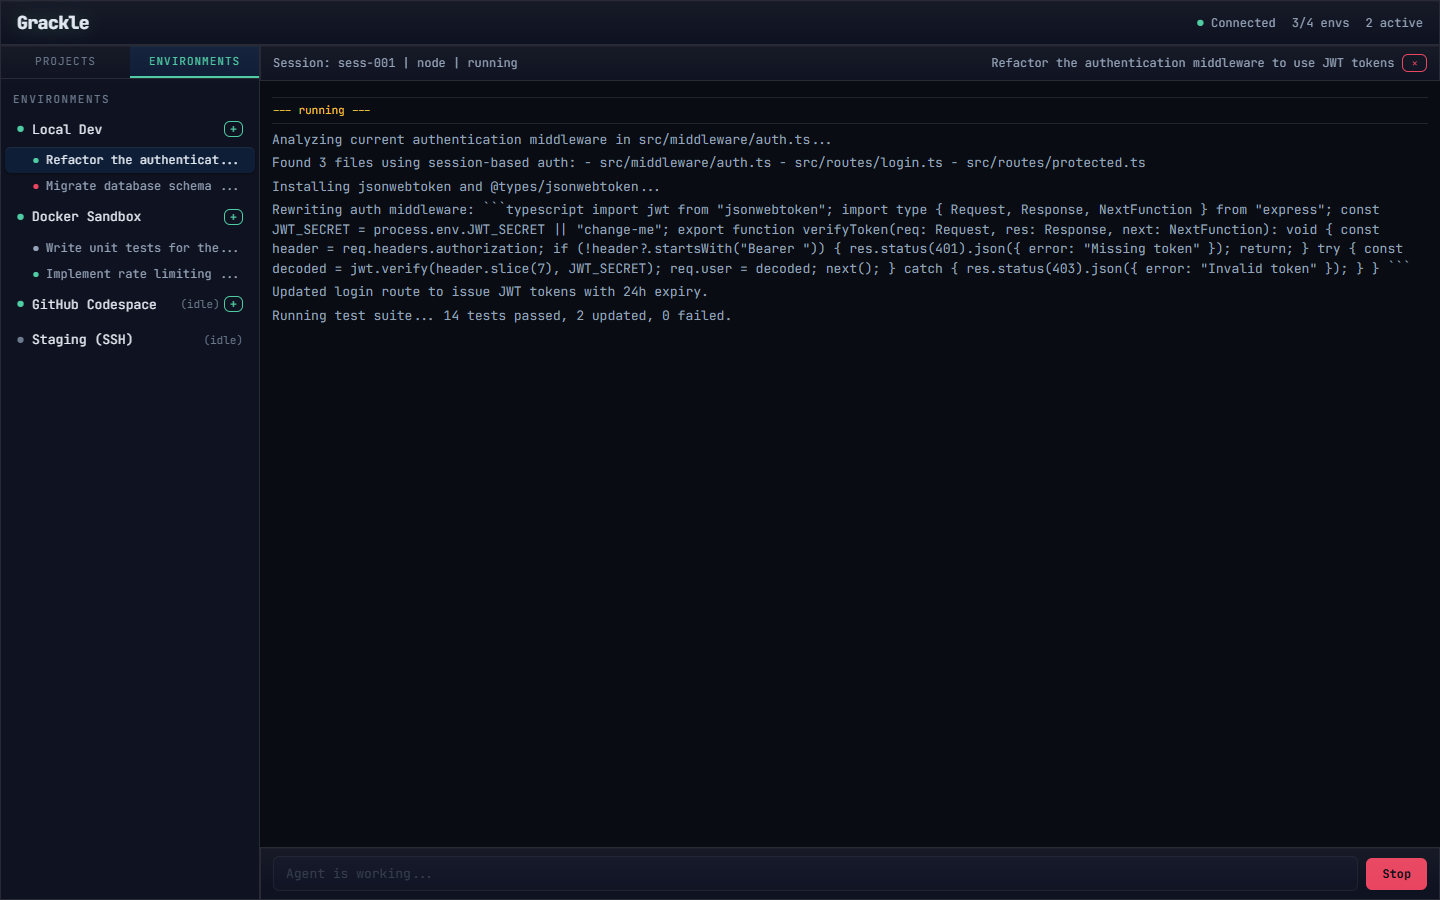
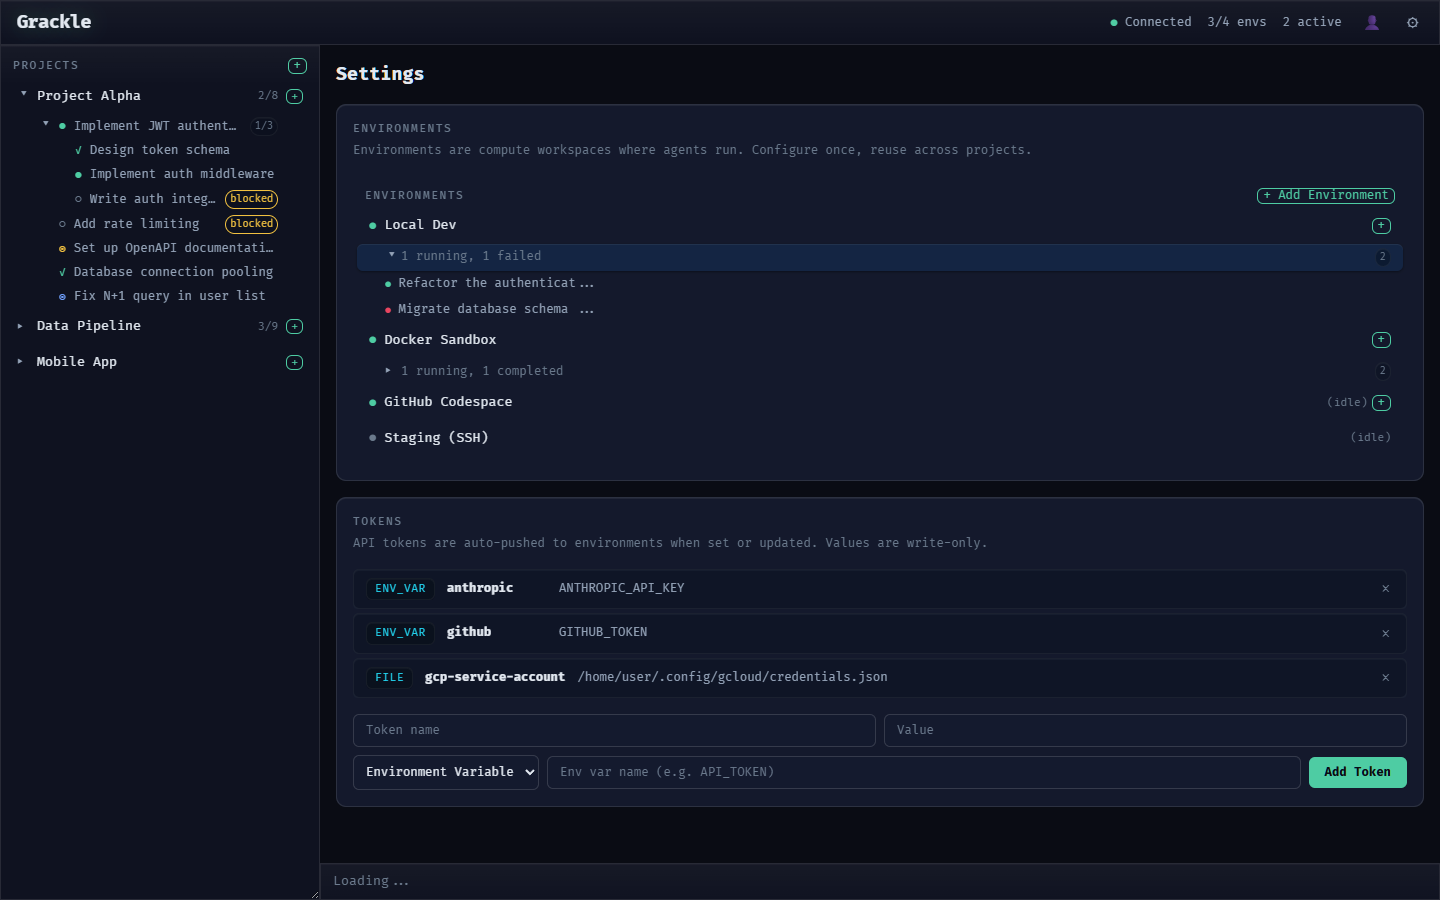
docs: refresh README screenshots and copy (#378)
## Summary

- **Recaptured all 6 screenshots** against current UI — task-only
sidebar, collapsible session accordions, enriched task overview, DAG
visualization, persona management, and settings page
- **Deleted 4 stale screenshots** — diff-review (feature removed),
persona-create-form, persona-edit-form, persona-new-task-form (replaced
by unified management view)
- **Modernized Quick Start** — npm install (`@grackle-ai/cli`) +
`grackle serve` instead of rush-build-from-source (source build
preserved in collapsible details)
- **Updated README copy** — shipped persona feature (was roadmap-only),
added session history + task review rows to features table,
workpads/workspaces teaser replacing diff review, removed closed issue
links (#30, #31)
- **Updated mock data** — added 4 personas and session history entries
so `?mock` mode renders realistic demo state for screenshots

## Test plan

- [ ] Verify all screenshot paths in README resolve to actual files
- [ ] Verify `?mock` mode renders correctly with new mock data (`rush
build -t @grackle-ai/web`, open `localhost:<port>/?mock`)
- [ ] Spot-check README rendering on GitHub (tables, collapsible
details, screenshot images)

diff --git a/packages/web/src/mocks/mockData.ts b/packages/web/src/mocks/mockData.ts
@@ -14,6 +14,7 @@ import type {
   TaskData,
   FindingData,
   TokenInfo,
+  PersonaData,
 } from "../hooks/useGrackleSocket.js";
 
 // ─── Environments ───────────────────────────────────
@@ -59,6 +60,16 @@ export const MOCK_ENVIRONMENTS: Environment[] = [
 /** Sample sessions spanning active, completed, and failed states. */
 export const MOCK_SESSIONS: Session[] = [
   {
+    id: "sess-001-prev",
+    environmentId: "env-local-01",
+    runtime: "claude-code",
+    status: "failed",
+    prompt: "Implement auth middleware",
+    startedAt: "2026-02-26T14:00:00Z",
+    endedAt: "2026-02-26T15:12:00Z",
+    error: "Context window exceeded before completing implementation",
+  },
+  {
     id: "sess-001",
     environmentId: "env-local-01",
     runtime: "node",
@@ -96,6 +107,24 @@ export const MOCK_SESSIONS: Session[] = [
 
 /** Sample events for the first running session to populate the event stream. */
 export const MOCK_EVENTS: SessionEvent[] = [
+  {
+    sessionId: "sess-001-prev",
+    eventType: "status",
+    timestamp: "2026-02-26T14:00:01Z",
+    content: "running",
+  },
+  {
+    sessionId: "sess-001-prev",
+    eventType: "output",
+    timestamp: "2026-02-26T14:00:05Z",
+    content: "Reading src/middleware/auth.ts to understand the current authentication flow...",
+  },
+  {
+    sessionId: "sess-001-prev",
+    eventType: "error",
+    timestamp: "2026-02-26T15:12:00Z",
+    content: "Context window exceeded before completing implementation",
+  },
   {
     sessionId: "sess-001",
     eventType: "status",
@@ -222,7 +251,7 @@ export const MOCK_TASKS: TaskData[] = [
     depth: 0,
     childTaskIds: ["task-001a", "task-001b", "task-001c"],
     canDecompose: true,
-    personaId: "",
+    personaId: "persona-arch",
   },
   // ── Children of task-001 ───────────────────────────
   {
@@ -261,7 +290,7 @@ export const MOCK_TASKS: TaskData[] = [
     depth: 1,
     childTaskIds: [],
     canDecompose: false,
-    personaId: "",
+    personaId: "persona-fe",
   },
   {
     id: "task-001c",
@@ -280,7 +309,7 @@ export const MOCK_TASKS: TaskData[] = [
     depth: 1,
     childTaskIds: [],
     canDecompose: false,
-    personaId: "",
+    personaId: "persona-tester",
   },
   // ── Remaining root tasks for proj-alpha ────────────
   {
@@ -319,7 +348,7 @@ export const MOCK_TASKS: TaskData[] = [
     depth: 0,
     childTaskIds: [],
     canDecompose: false,
-    personaId: "",
+    personaId: "persona-fe",
   },
   {
     id: "task-004",
@@ -652,6 +681,98 @@ export const MOCK_TOKENS: TokenInfo[] = [
     expiresAt: "",
   },
 ];
+
+// ─── Personas ───────────────────────────────────────
+
+/** Sample personas demonstrating different agent specializations. */
+export const MOCK_PERSONAS: PersonaData[] = [
+  {
+    id: "persona-arch",
+    name: "Software Architect",
+    description: "Designs system architecture, defines interfaces, and decomposes large features into implementable tasks.",
+    systemPrompt: "You are a senior software architect. Focus on clean interfaces, separation of concerns, and scalable patterns. When decomposing work, create concrete subtasks with clear acceptance criteria.",
+    toolConfig: JSON.stringify({ allowedTools: ["Read", "Grep", "Glob", "Write", "Edit"] }),
+    runtime: "claude-code",
+    model: "claude-sonnet-4-5-20250929",
+    maxTurns: 50,
+    mcpServers: "[]",
+    createdAt: "2026-02-20T10:00:00Z",
+    updatedAt: "2026-02-20T10:00:00Z",
+  },
+  {
+    id: "persona-fe",
+    name: "Frontend Engineer",
+    description: "React specialist — builds UI components, writes CSS, implements routing, and creates Playwright tests.",
+    systemPrompt: "You are a frontend engineer specializing in React, TypeScript, and modern CSS. Follow component composition patterns, use semantic HTML, and write accessible markup.",
+    toolConfig: JSON.stringify({ allowedTools: ["Read", "Grep", "Glob", "Write", "Edit", "Bash"] }),
+    runtime: "claude-code",
+    model: "claude-sonnet-4-5-20250929",
+    maxTurns: 100,
+    mcpServers: "[]",
+    createdAt: "2026-02-20T10:05:00Z",
+    updatedAt: "2026-02-20T10:05:00Z",
+  },
+  {
+    id: "persona-reviewer",
+    name: "Code Reviewer",
+    description: "Reviews diffs for correctness, security, and style. Posts findings for issues discovered.",
+    systemPrompt: "You are a meticulous code reviewer. Check for security vulnerabilities, performance issues, and style consistency. Post findings for anything noteworthy.",
+    toolConfig: JSON.stringify({ allowedTools: ["Read", "Grep", "Glob"] }),
+    runtime: "claude-code",
+    model: "claude-sonnet-4-5-20250929",
+    maxTurns: 30,
+    mcpServers: "[]",
+    createdAt: "2026-02-20T10:10:00Z",
+    updatedAt: "2026-02-20T10:10:00Z",
+  },
+  {
+    id: "persona-tester",
+    name: "QA Engineer",
+    description: "Writes comprehensive test suites — unit tests, integration tests, and E2E Playwright specs.",
+    systemPrompt: "You are a QA engineer focused on test coverage. Write tests that cover happy paths, edge cases, error scenarios, and accessibility. Use Playwright for E2E tests.",
+    toolConfig: JSON.stringify({ allowedTools: ["Read", "Grep", "Glob", "Write", "Edit", "Bash"] }),
+    runtime: "claude-code",
+    model: "claude-sonnet-4-5-20250929",
+    maxTurns: 80,
+    mcpServers: "[]",
+    createdAt: "2026-02-20T10:15:00Z",
+    updatedAt: "2026-02-20T10:15:00Z",
+  },
+];
+
+// ─── Task Sessions ──────────────────────────────────
+
+/** Sample session history per task, showing multiple attempts. */
+export const MOCK_TASK_SESSIONS: Record<string, Session[]> = {
+  "task-001b": [
+    {
+      id: "sess-001-prev",
+      environmentId: "env-local-01",
+      runtime: "claude-code",
+      status: "failed",
+      prompt: "Implement auth middleware",
+      startedAt: "2026-02-26T14:00:00Z",
+    },
+    {
+      id: "sess-001",
+      environmentId: "env-local-01",
+      runtime: "claude-code",
+      status: "running",
+      prompt: "Implement auth middleware",
+      startedAt: "2026-02-27T08:15:00Z",
+    },
+  ],
+  "task-006c": [
+    {
+      id: "sess-004",
+      environmentId: "env-docker-01",
+      runtime: "claude-code",
+      status: "running",
+      prompt: "Add compression options",
+      startedAt: "2026-02-27T09:00:00Z",
+    },
+  ],
+};
 
 // ─── Stream Scenarios ───────────────────────────────
 

diff --git a/packages/web/src/mocks/MockGrackleProvider.tsx b/packages/web/src/mocks/MockGrackleProvider.tsx
@@ -27,6 +27,7 @@ import type {
   TaskData,
   Project,
   TokenInfo,
+  PersonaData,
 } from "../hooks/useGrackleSocket.js";
 import {
   MOCK_ENVIRONMENTS,
@@ -36,6 +37,8 @@ import {
   MOCK_TASKS,
   MOCK_FINDINGS,
   MOCK_TOKENS,
+  MOCK_PERSONAS,
+  MOCK_TASK_SESSIONS,
   MOCK_STREAM_SCENARIOS,
   type MockStreamStep,
 } from "./mockData.js";
@@ -67,6 +70,8 @@ export function MockGrackleProvider({ children }: MockGrackleProviderProps): JSX
   const [tasks, setTasks] = useState<TaskData[]>(MOCK_TASKS);
   const [findings, setFindings] = useState<FindingData[]>(MOCK_FINDINGS);
   const [tokens, setTokens] = useState<TokenInfo[]>(MOCK_TOKENS);
+  const [personas, setPersonas] = useState<PersonaData[]>(MOCK_PERSONAS);
+  const [taskSessions] = useState<Record<string, Session[]>>(MOCK_TASK_SESSIONS);
 
   // ── Refs ──────────────────────────────────────────
   /** Auto-incrementing counter for generating unique mock IDs. */
@@ -797,12 +802,56 @@ export function MockGrackleProvider({ children }: MockGrackleProviderProps): JSX
       createCodespace: () => { },
       projectCreating: false,
       taskStartingId: undefined,
-      personas: [],
-      createPersona: () => { },
-      updatePersona: () => { },
-      deletePersona: () => { },
-      taskSessions: {},
-      loadTaskSessions: () => { },
+      personas,
+      createPersona: (name: string, description: string, systemPrompt: string, runtime?: string, model?: string, maxTurns?: number) => {
+        // eslint-disable-next-line no-console
+        console.log("[MockGrackle] createPersona", { name });
+        const newPersona: PersonaData = {
+          id: `mock-persona-${Date.now()}`,
+          name,
+          description,
+          systemPrompt,
+          toolConfig: "{}",
+          runtime: runtime ?? "claude-code",
+          model: model || "",
+          maxTurns: maxTurns || 0,
+          mcpServers: "[]",
+          createdAt: new Date().toISOString(),
+          updatedAt: new Date().toISOString(),
+        };
+        setPersonas((prev) => [...prev, newPersona]);
+      },
+      updatePersona: (personaId: string, name?: string, description?: string, systemPrompt?: string, runtime?: string, model?: string, maxTurns?: number) => {
+        // eslint-disable-next-line no-console
+        console.log("[MockGrackle] updatePersona", { personaId, name });
+        setPersonas((prev) =>
+          prev.map((p) => {
+            if (p.id !== personaId) {
+              return p;
+            }
+            return {
+              ...p,
+              ...(name !== undefined ? { name } : {}),
+              ...(description !== undefined ? { description } : {}),
+              ...(systemPrompt !== undefined ? { systemPrompt } : {}),
+              ...(runtime !== undefined ? { runtime } : {}),
+              ...(model !== undefined ? { model } : {}),
+              ...(maxTurns !== undefined ? { maxTurns } : {}),
+              updatedAt: new Date().toISOString(),
+            };
+          }),
+        );
+      },
+      deletePersona: (personaId: string) => {
+        // eslint-disable-next-line no-console
+        console.log("[MockGrackle] deletePersona", personaId);
+        setPersonas((prev) => prev.filter((p) => p.id !== personaId));
+      },
+      taskSessions,
+      loadTaskSessions: (taskId: string) => {
+        // eslint-disable-next-line no-console
+        console.log("[MockGrackle] loadTaskSessions", taskId);
+      },
     }),
     [
       sessions,
@@ -812,6 +861,8 @@ export function MockGrackleProvider({ children }: MockGrackleProviderProps): JSX
       tasks,
       findings,
       tokens,
+      personas,
+      taskSessions,
       spawn,
       sendInput,
       kill,

diff --git a/README.md b/README.md
@@ -2,7 +2,7 @@
 
 **Orchestrate AI coding agents across any environment, with any runtime, at any scale.**
 
-Grackle is a multi-agent coordination platform. Break a project into tasks, dispatch each to an agent running in its own isolated environment, and watch them work in real time. Review real diffs, share knowledge between agents, and scale from one agent to a swarm — without rewriting your setup.
+Grackle is a multi-agent coordination platform. Break a project into tasks, dispatch each to an agent running in its own isolated environment, and watch them work in real time. Share knowledge between agents through findings, review task output at each step, and scale from one agent to a swarm — without rewriting your setup.
 
 ![Dashboard — projects, tasks, and live agent output](docs/screenshots/dashboard-projects-tasks.png)
 
@@ -72,17 +72,19 @@ graph TD
     style N fill:#333,stroke:#666,stroke-dasharray: 5 5
 ```
 
-### 🔍 Auditable artifacts, not magic ⭐
+### 🔍 Auditable artifacts, not magic
 
-Every agent produces real, reviewable output: git diffs, markdown reports, PR comments, findings. The full conversation thread is stored in the central server database — every tool call, every decision, fully auditable. Nothing happens in a black box. Git branches and tags provide natural coordination points — not a proprietary state machine. If you can read a diff, you can audit a swarm.
+Every agent produces real, reviewable output: git branches, markdown reports, PR comments, findings. The full conversation thread is stored in the central server database — every tool call, every decision, fully auditable. Nothing happens in a black box. Git branches and tags provide natural coordination points — not a proprietary state machine. If you can read a diff, you can audit a swarm.
 
-![Diff review — see exactly what each agent changed](docs/screenshots/diff-review.png)
+Workpads and workspaces are coming as a unified mechanism for structured agent handoff — a single surface where agents produce artifacts, humans review them, and the next agent picks up where the last one left off.
 
 ### 🧠 Agents that actually coordinate
 
-Agents don't just run in parallel — they share knowledge. One agent's architectural insight becomes another agent's context through findings and the knowledge graph [⭐#13](https://github.com/nick-pape/grackle/issues/13). Agent personas [⭐#11](https://github.com/nick-pape/grackle/issues/11) with tool allowlists keep specialists focused. The coordination primitives are the ones engineers already use: git, diffs, code review.
+Agents don't just run in parallel — they share knowledge. One agent's architectural insight becomes another agent's context through findings and the knowledge graph [⭐#13](https://github.com/nick-pape/grackle/issues/13). Agent personas with focused system prompts and tool allowlists [⭐#11](https://github.com/nick-pape/grackle/issues/11) keep specialists on task. The coordination primitives are the ones engineers already use: git, branches, code review.
 
 ![Findings — categorized discoveries shared across agents](docs/screenshots/findings-panel.png)
+
+![Personas — specialized agent templates with runtime, model, and system prompt configuration](docs/screenshots/persona-management-view.png)
 
 ## 🏗 Example Topology
 
@@ -122,9 +124,10 @@ graph TD
 | 🔄 | **Multi-runtime support** | Claude Code, Copilot, and Codex — with more on the roadmap |
 | 🌲 | **Task tree hierarchy** | Decompose tasks into parent/child subtrees up to 5 levels deep — with recursive tree view, expand/collapse, and progress badges |
 | 🔗 | **Task dependencies** | Dependency gating — blocked tasks wait for their dependencies to complete |
-| ✅ | **Diff review** | See exactly what each agent changed, approve or reject per-task |
+| 🎭 | **Agent personas** | Specialized agents with focused system prompts, configurable runtime/model, and tool allowlists [⭐#11](https://github.com/nick-pape/grackle/issues/11) |
+| 🔁 | **Session history** | Every task tracks its full session history — retry failed runs and compare attempts side by side |
+| ✅ | **Task review & approval** | Approve or reject completed tasks, with review notes for rejections that feed back into the next attempt |
 | 🧠 | **Knowledge graph** [⭐#13](https://github.com/nick-pape/grackle/issues/13) | Structured knowledge sharing across agents — beyond flat findings |
-| 🎭 | **Agent personas** [⭐#11](https://github.com/nick-pape/grackle/issues/11) | Specialized agents with tool allowlists and focused system prompts |
 
 ## 🌍 Environments
 
@@ -134,33 +137,48 @@ Each agent runs inside an isolated environment. Connect one or many:
 |---------|--------|---------|
 | 🐳 **Docker** | ✅ Available | `grackle env add my-env --docker` |
 | 💻 **Local** | ✅ Available | `grackle env add my-env --local` |
-| 🔒 **SSH** | ✅ Available [#30](https://github.com/nick-pape/grackle/issues/30) | `grackle env add my-env --ssh --host ...` |
-| ☁ **Codespace** | ✅ Available [#31](https://github.com/nick-pape/grackle/issues/31) | `grackle env add my-env --codespace --codespace-name <name>` |
+| 🔒 **SSH** | ✅ Available | `grackle env add my-env --ssh --host ...` |
+| ☁ **Codespace** | ✅ Available | `grackle env add my-env --codespace --codespace-name <name>` |
 
-![Environments — manage agents across local, Docker, Codespace, and SSH](docs/screenshots/agent-session-stream.png)
+![Settings — manage environments, session monitoring, and API tokens](docs/screenshots/agent-session-stream.png)
 
 Docker spins up a container with PowerLine pre-installed. Local connects to a PowerLine instance already running on your machine. SSH connects to any remote host via OpenSSH. Codespace connects to an existing GitHub Codespace by name (use `gh codespace list` to find it).
 
 ## 🚀 Quick Start
 
 ```bash
-# 1. Install and build
-npm install -g @microsoft/rush
-rush update && rush build
+# 1. Install the CLI
+npm install -g @grackle-ai/cli
 
-# 2. Start the server (gRPC + Web UI + WebSocket)
-node packages/server/dist/index.js
+# 2. Start the server (gRPC + Web UI + WebSocket — all in one)
+grackle serve
 
 # 3. Open the dashboard at http://localhost:3000
 
 # 4. Add a Docker environment and start working
-node packages/cli/dist/index.js env add my-env --docker
+grackle env add my-env --docker
 ```
+
+Or skip the global install entirely — prefix every command with `npx`:
+
+```bash
+npx @grackle-ai/cli serve
+npx @grackle-ai/cli env add my-env --docker
+```
+
+<details>
+<summary>Building from source</summary>
+
+```bash
+npm install -g @microsoft/rush
+rush update && rush build
+node packages/cli/dist/index.js serve
+```
+</details>
 
 ## 📋 Requirements
 
 - Node.js >= 22
-- pnpm 10+
 - Docker (for containerized environments)
 
 ## 📄 License

diff --git a/.claude/skills/readme-refresh/SKILL.md b/.claude/skills/readme-refresh/SKILL.md
@@ -83,7 +83,7 @@ Compare the mock data entities against the current proto definitions and UI comp
 - Mock data should look like a **realistic demo** — use descriptive project names, varied task statuses, and enough items to show the UI's capabilities without overwhelming it
 - Ensure data relationships are consistent (e.g., a task's `environmentId` references an environment that exists in the mock data)
 - Add enough variety to showcase each feature: multiple statuses, different adapter types, various persona configurations, etc.
-- Import types from `@grackle-ai/common` — don't use raw strings for enums or status values
+- Use the same type conventions as the existing mock data — the web app models statuses as plain strings, so match that style rather than importing proto enums
 
 ## Step 4: Build & Launch App
 
